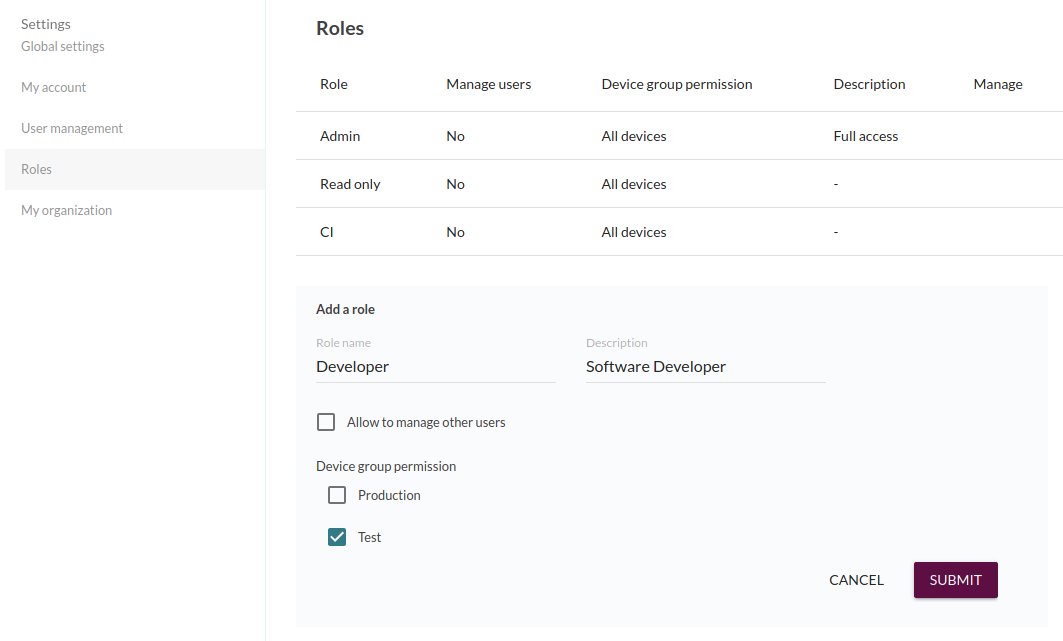
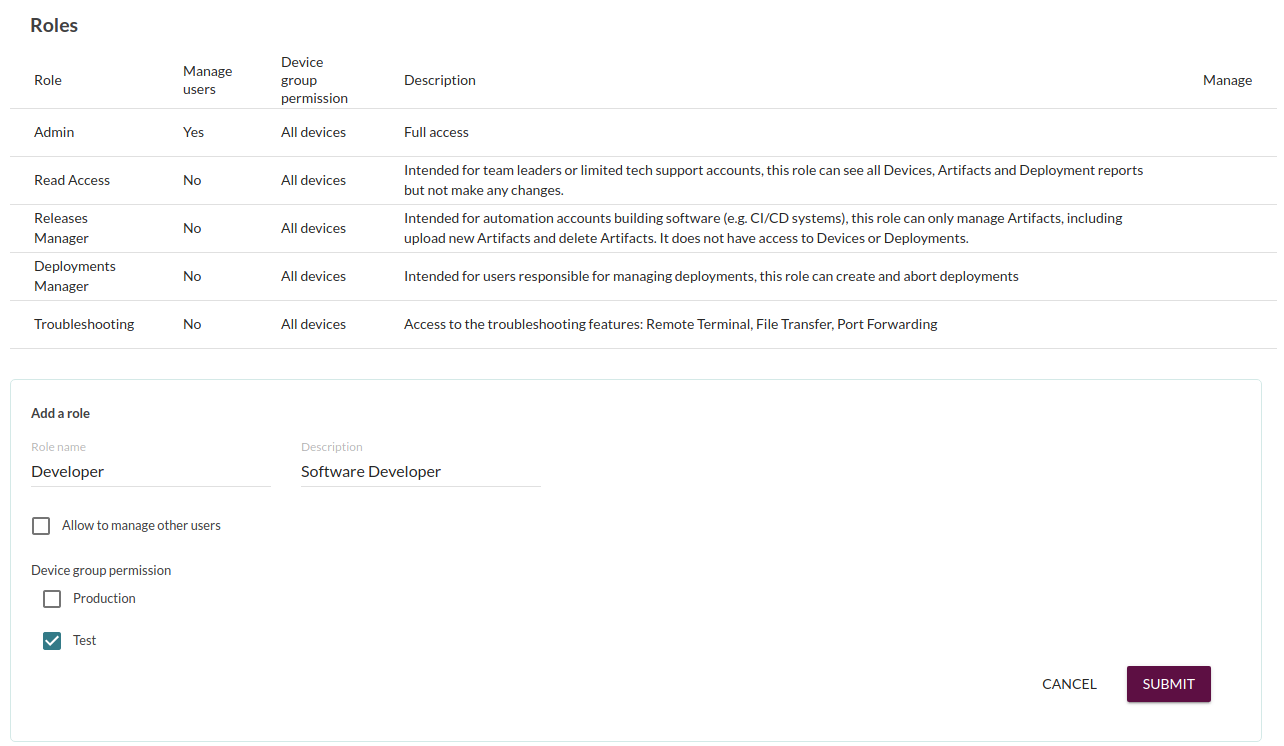
update RBAC documentation after introducing new roles
changelog: title

diff --git a/02.Overview/12.Role.Based.Access.Control/docs.md b/02.Overview/12.Role.Based.Access.Control/docs.md
@@ -19,13 +19,23 @@ Mender supports four different types of Roles:
 
 * **Admin:** Full access
 
-* **CI:** Intended for *Continuous Integration* systems. It can only manage
-Mender Artifacts, such as upload and delete Artifacts.
-
-* **Read only:** Allows the user to see the status of devices and deployments,
+* **Read Access:** The role allows the user to see the status of devices and deployments,
 but not make any modifications. This role is well suited for limited technical
 support users, or team leads who need an overview of deployment status or
 individual devices, but are not involved in day-to-day deployment management.
+
+
+* **Release Manager:** Intended for *Continuous Integration* systems. It can only manage
+Mender Artifacts, such as upload and delete Artifacts.
+
+* **Deployments Manager:** Intended for users responsible for managing deployments.
+With this role users can create and abort deployments. On it's own this role
+won't make the devices visible in the UI, you must pair it with Read Access for that.
+
+* **Troubleshooting:** User with this role assigned has access
+to the troubleshooting features such as Remote Terminal, File Transfer, Port Forwarding.
+On it's own this role won't make the devices visible in the UI, you must pair it
+with Read Access for that.
 
 * **Device groups:** Grants access to a *customizable* set of Device groups in
 Mender. Instances of this role can be created under the *Roles* section in the
@@ -34,6 +44,8 @@ to. The most common use case is to allow developers full access to Test devices,
 while only selected users have access to Production devices. Another common use
 case is to segregate device access based on geographical location, e.g. Europe
 vs. US.
+To have a user who has full control over a particular group in the UI and nothing else,
+be sure to give them the roles: Deployments Manager, Read Access and the chosen Device group role.
 
 Users with the Admin role can manage other users, including creating and
 assigning roles when creating a new user account or editing an existing user
